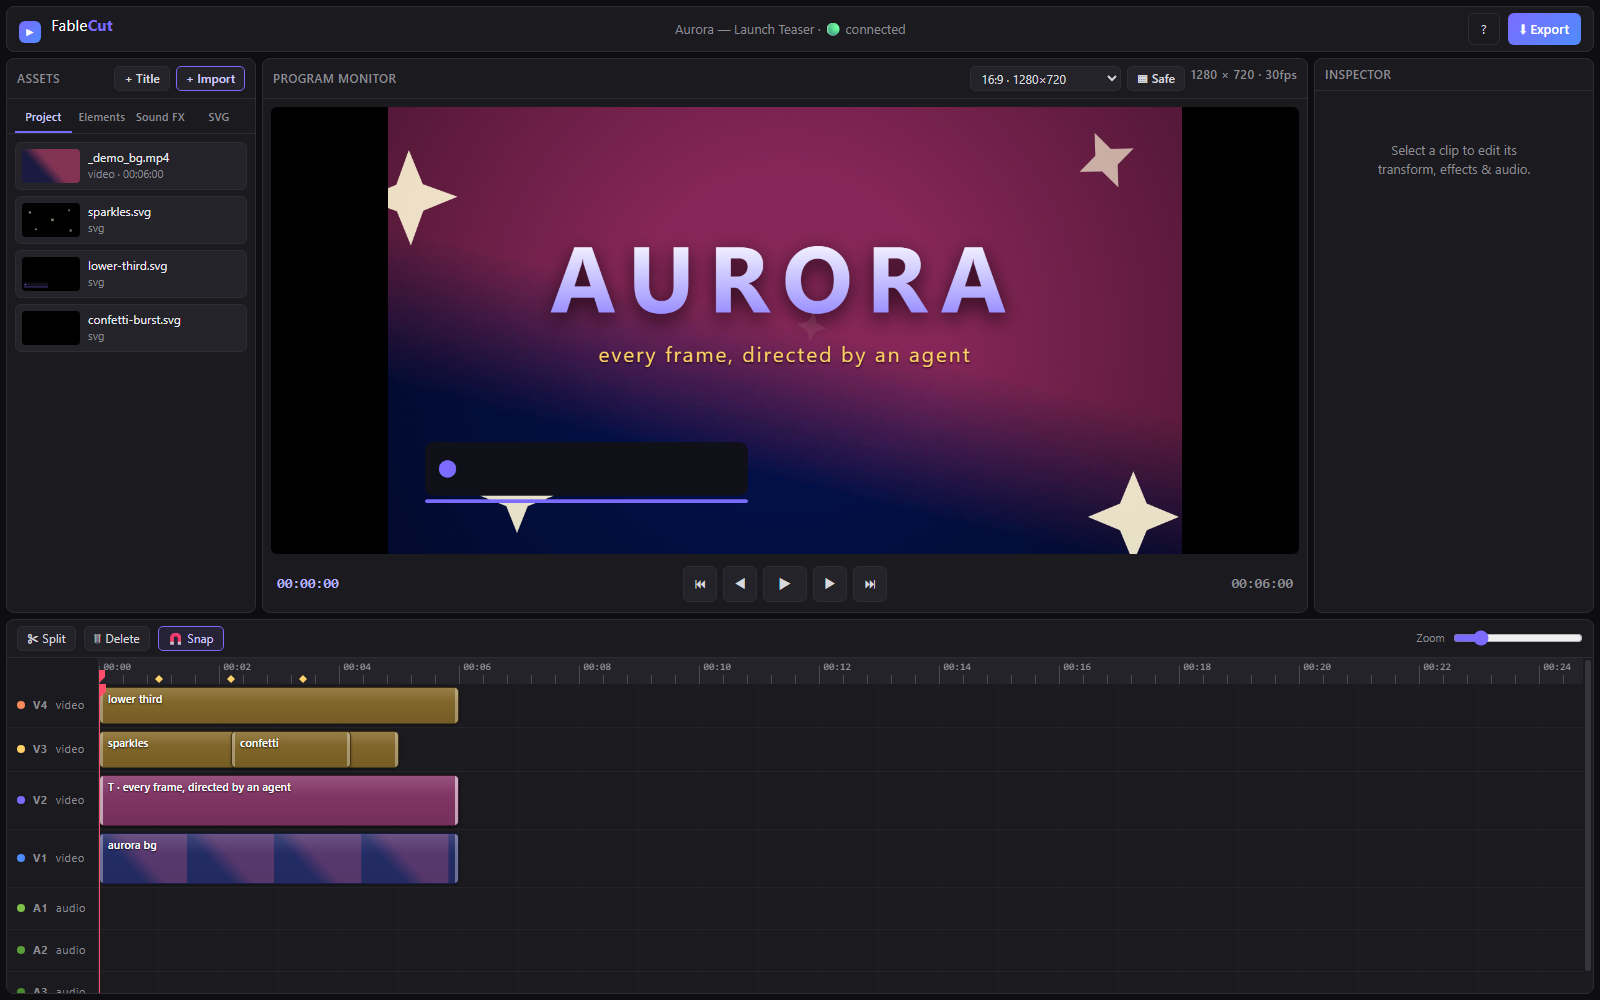
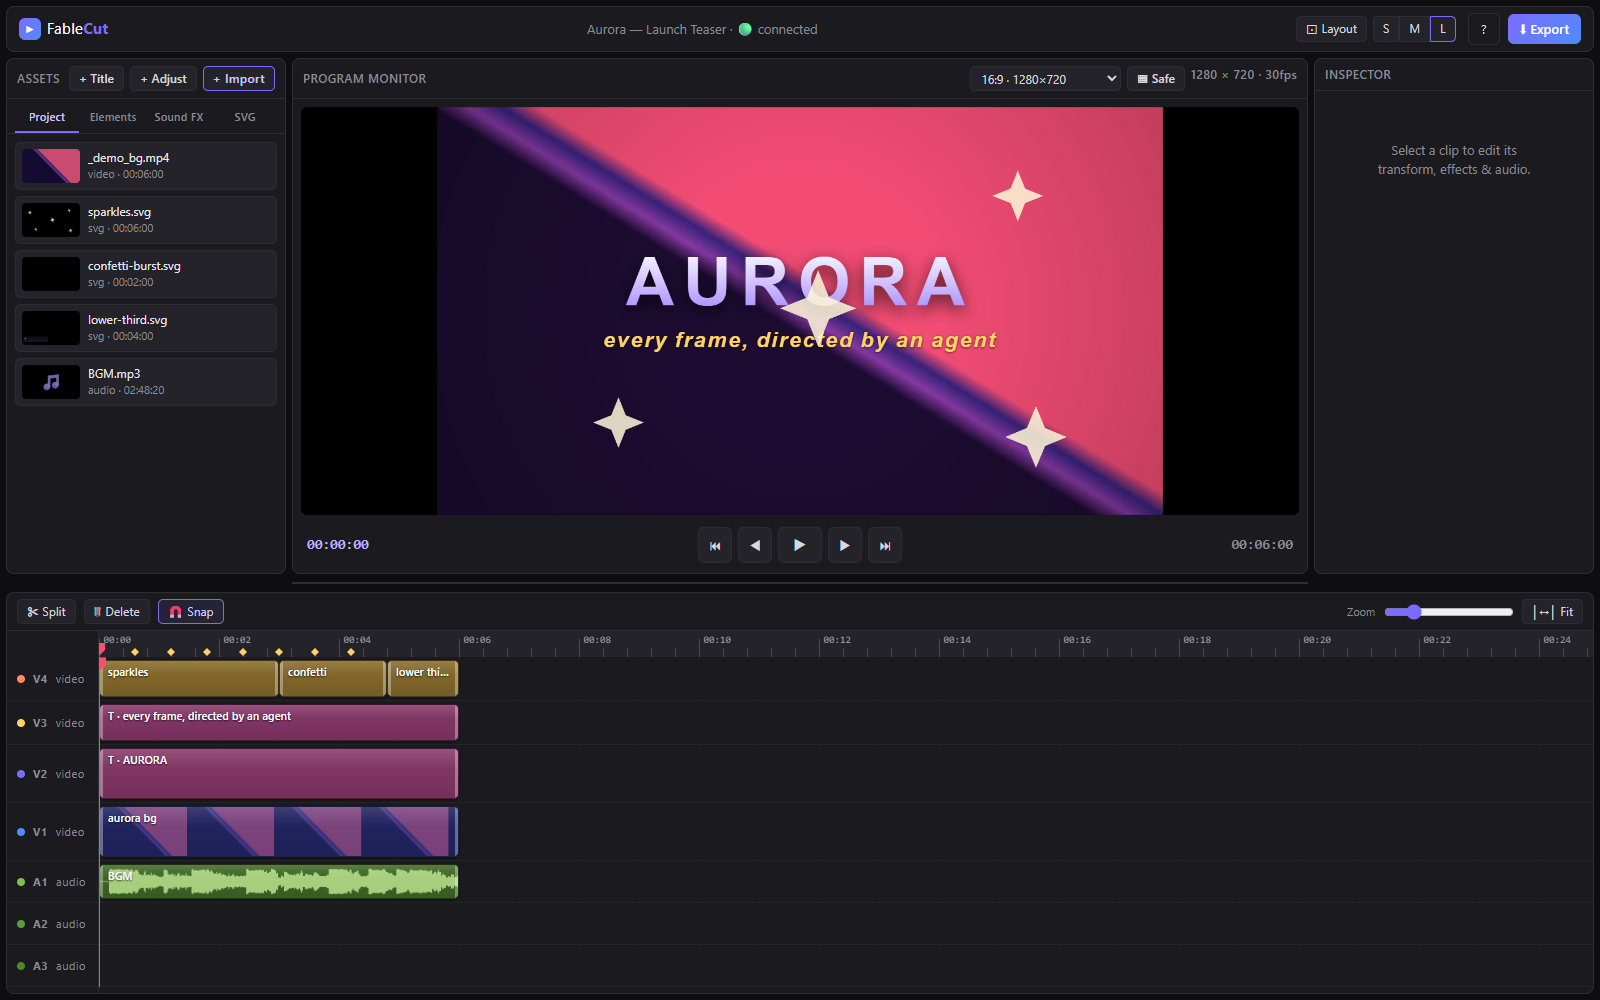
docs: refresh editor screenshot; changelog + README for layout features and fixes
Screenshot regenerated at 1600x1000 with the new layout controls visible.

diff --git a/CHANGELOG.md b/CHANGELOG.md
@@ -5,6 +5,20 @@ All notable changes to FableCut are documented here.
 The format is based on [Keep a Changelog](https://keepachangelog.com/en/1.1.0/),
 and this project adheres to [Semantic Versioning](https://semver.org/spec/v2.0.0.html).
 
+## [Unreleased]
+
+### Added
+- Resizable monitor/timeline split — drag the divider, double-click to reset (thanks @PlkMarudny, #14)
+- S/M/L timeline track-density presets with layout persistence (thanks @PlkMarudny, #15)
+- Zoom to selection (Z) now frames all selected clips (thanks @PlkMarudny, #13)
+- Title-style picker: each entry renders in its own typeface, and hovering an entry live-previews the style on the monitor (mouse away reverts, click commits)
+- Program-monitor hover cursors: the rotate knob shows a rotate cursor, corner handles show direction-aware resize arrows (correct even on rotated clips), and the clip body shows a move cursor
+
+### Fixed
+- Changing a title's style no longer resets its position/scale/rotation — style switches only restyle the look; placement applies to newly created titles only
+- Selection handles now clamp to the frame edge and stay visible/grabbable when a clip's box extends past the canvas
+- Header logo icon/text vertical alignment after the topbar layout change
+
 ## [1.5.0] - 2026-07-11
 
 ### Added

diff --git a/README.md b/README.md
@@ -37,6 +37,8 @@ same time.
 - Beat & cue markers (tap <kbd>M</kbd> on the beat during playback) with edge snapping
 - Real decoded audio waveforms on clips
 - Canvas aspect presets (16:9, 9:16 reels, 4:5, 1:1) + safe-area guides
+- Resizable workspace: drag the divider between monitor and timeline (double-click resets), plus S/M/L timeline track-density presets (S hides thumbnails for compact tracks)
+- Zoom to selection (Z) frames all selected clips, not just one
 
 **Look**
 - 12 one-click filter presets (cinematic, teal-orange, noir, vintage, cyberpunk…)